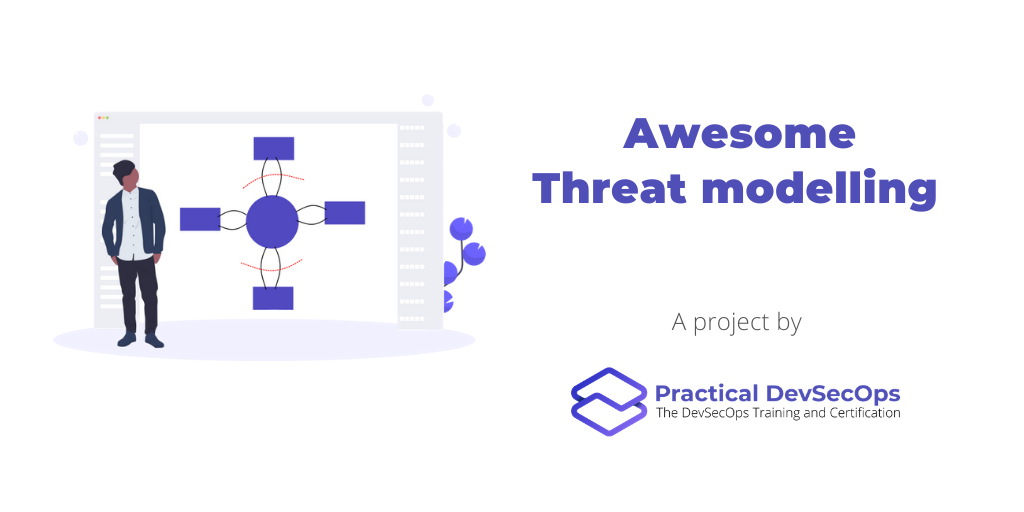
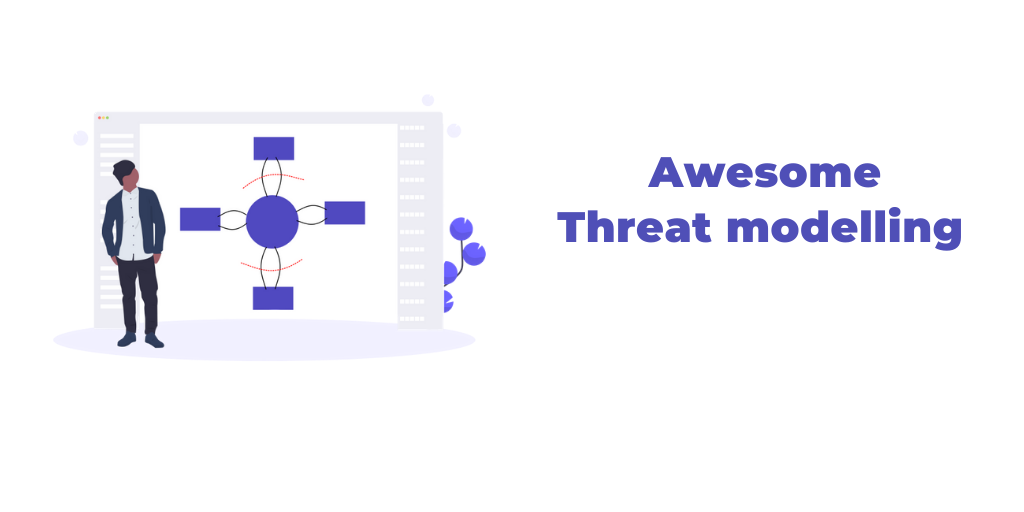
Add PDSO link (#4)
* Add PDSO link

* Make the image full width

* Add new image

* Add link to PDSO University

Changed region(s): [[0.5, 0.2188, 0.9375, 0.5], [0.5312, 0.7188, 0.875, 0.8438], [0.6562, 0.625, 0.7812, 0.6562]]

diff --git a/README.md b/README.md
@@ -1,7 +1,7 @@
 
 # Awesome Threat Modeling [![Awesome](https://awesome.re/badge.svg)](https://awesome.re) 
 
-![Awesome Threat modeling](images/awesome-threat-modelling.png)
+[<img src="images/awesome-threat-modelling.png">](https://www.practical-devsecops.com/devsecops-university/)
 
 A curated list of threat modeling resources (books, courses - free and paid, videos, tools, tutorials and workshop to practice on) for learning Threat modeling and initial phases of security review.
 
